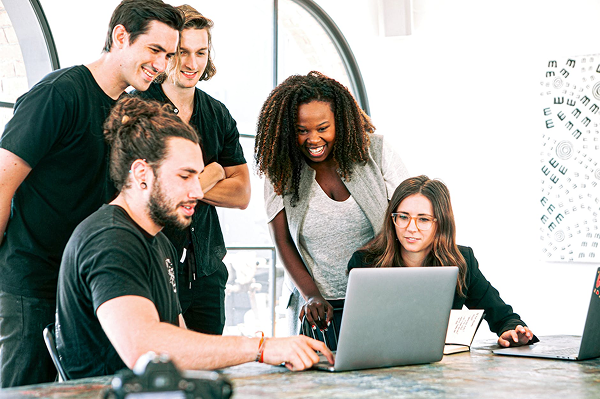
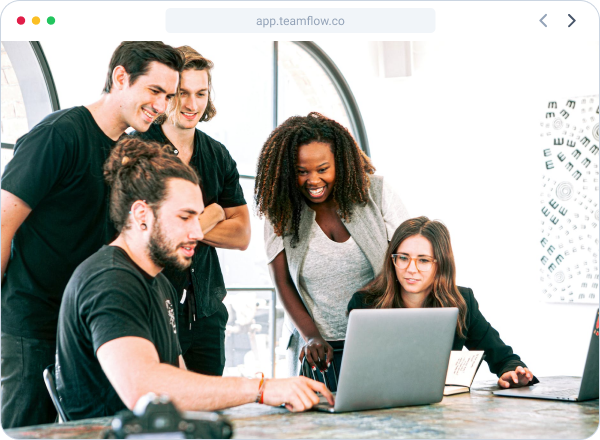
parte3

diff --git a/index.html b/index.html
@@ -5,9 +5,10 @@
     <meta name="viewport" content="width=device-width, initial-scale=1.0">
     <title>Projeto Bootstrap</title>
     <link rel="stylesheet" href="css/bootstrap.css">
+    <link rel="stylesheet" href="css/style.css">
 </head>
 <body>
-    <nav class="navbar navbar-expand-lg bg-body-tertiary ">
+    <nav class="navbar navbar-expand-md bg-light fixed-top box-shadow p-3">
   <div class="container">
     <a class="navbar-brand" href="#"><img src="img/Teamflow.png" alt=""></a>
     <button class="navbar-toggler" type="button" data-bs-toggle="collapse" data-bs-target="#navbarNavDropdown" aria-controls="navbarNavDropdown" aria-expanded="false" aria-label="Toggle navigation">
@@ -34,30 +35,101 @@
           <ul class="dropdown-menu">
             <li><a class="dropdown-item" href="#">Para Startups</a></li>
             <li><a class="dropdown-item" href="#">Para Pequenas Equipes</a></li>
-            <li><a class="dropdown-item" href="#">Something else here</a></li>
+            <li><a class="dropdown-item" href="#">Para Empresas</a></li>
+            <li><a class="dropdown-item" href="#">Agências</a></li>
           </ul>
         </li>
         <li class="nav-item dropdown mx-2">
           <a class="nav-link dropdown-toggle text-dark" href="#" role="button" data-bs-toggle="dropdown" aria-expanded="false">
-            Dropdown link
+            Serviços
           </a>
           <ul class="dropdown-menu">
-            <li><a class="dropdown-item" href="#">Action</a></li>
-            <li><a class="dropdown-item" href="#">Another action</a></li>
-            <li><a class="dropdown-item" href="#">Something else here</a></li>
+            <li><a class="dropdown-item" href="#">Onboarding</a></li>
+            <li><a class="dropdown-item" href="#">Implantação</a></li>
+            <li><a class="dropdown-item" href="#">Consultoria</a></li>
+            <li><a class="dropdown-item" href="#">Segurança e Conformidade</a></li>
+
+          </ul>
+        </li>
+        <li class="nav-item dropdown mx-2">
+          <a class="nav-link dropdown-toggle text-dark" href="#" role="button" data-bs-toggle="dropdown" aria-expanded="false">
+            Central de Ajuda
+          </a>
+          <ul class="dropdown-menu">
+            <li><a class="dropdown-item" href="#">Documentação</a></li>
+            <li><a class="dropdown-item" href="#">Guias e Tutoriais</a></li>
+            <li><a class="dropdown-item" href="#">Consultoria</a></li>
+            <li><a class="dropdown-item" href="#">Perguntas Frequentes (FAQ)</a></li>
+
           </ul>
         </li>
         <li class="nav-item">
-          <a class="nav-link text-dark" href="#">Features</a>
+          <a class="nav-link text-dark" href="#">Preços</a>
         </li>
       </ul>
     </div>
-    <div>
+    <div class="d-none d-sm-block">
         <a href="#" class="text-decoration-none fw-semibold p-4">Entrar</a>
         <a href="" class="btn btn-primary">Cadastre-se gratis ⭢ </a>
     </div>
   </div>
 </nav>
+
+    <section class="container my-5 pt-5 " id="section-principal">
+        <div class="row justify-content-center align-items-center">
+        <div class="col-md-5 mx-5">
+            <h1 class="fw-bold display-3 pb-2">Projetos em equipe, feitos do jeito certo</h1>
+            <p class="text-wrap py-3 lh-base">A plataforma completa para sua equipe planejar, colaborar e entregar projetos com mais organização, agilidade e resultado.</p>
+            <form class="d-flex" role="search">
+              <input class=" form-control me-2 " type="email" placeholder="email@email.com" aria-label="Search"/>
+              <button class="btn btn-primary w-50" type="submit">Cadastre-se  ⭢</button>
+            </form>
+            <img src="img/marcas.png" alt="marcas" class="pt-md-3 py-3" style="width: 100%;">
+        </div>
+        <div class="col-md-6">
+            <img src="img/foto1.png" alt="equipe" class="w-100">
+        </div>
+        </div>
+    </section>
+
+    <section class="container py-5 border-top" id="seg-section">
+        <div class="row justify-content-center align-items-center ">
+            <div class="col-md mx-5">
+                <img src="img/foto2.png" alt="" class="w-100 ">
+            </div>
+            <div class="col-md">
+                <h1 class="h1 fw-bold">Aproveite melhor o seu tempo trabalhando</h1>
+                <p class="lh-base py-3" >Organize projetos, acompanhe tarefas e colabore com sua equipe em um ambiente simples e intuitivo. Menos esforço para gerenciar, mais tempo para focar no que realmente importa.</p>
+                <a href="#" class="text-decoration-none fw-semibold">Veja como ajudamos outras equipes →</a>
+            </div>
+
+        </div>
+
+    </section>
+
+    <section class="container-md my-md-5 pt-md-5 my-3 pt-3 align-items-center" id="section-principal">
+        <div class="row justify-content-center align-items-center ">
+        <div class="col-md mx-5">
+            <h1 class="fw-bold h1 pb-2">Todas as ferramentas que sua equipe precisa</h1>
+            <p class="text-wrap py-3 lh-base">Centralize tarefas, comunicação e integrações em um único lugar. Conecte as ferramentas que sua equipe já usa e trabalhe com mais agilidade, organização e controle.</p>
+            <a href="#" class="text-decoration-none fw-semibold">Conheça as ferramentas →</a>
+        </div>
+        <div class="col-md">
+            <img src="img/foto3.png" alt="equipe" class="w-90 align-self-center">
+        </div>
+        </div>
+    </section>
+
+    <section class="container" id="section-fundo">
+        <div class="row">
+        <div class="col"></div>
+        <div class="p-4 text-white col align-self-center m-3">
+            <h1 class="display-3 pb-3">Problemas surgem. Soluções acontecem.</h1>
+            <p class="pb-3">Simplifique processos, reduza gargalos e resolva desafios com mais rapidez. A Teamflow ajuda sua equipe a manter o fluxo de trabalho organizado, do planejamento à entrega.</p>
+            <a href="" class="text-white fw-semibold text-decoration-none">Melhore seu fluxo de trabalho →</a>
+        </div>
+        </div>
+    </section>
 
 
 

diff --git a/css/style.css b/css/style.css
@@ -1,0 +1,59 @@
+body{
+    padding-top: 75px;
+}
+
+.box-shadow{
+    box-shadow: 0 2px 4px 0 rgba(0, 0, 0, 0.05),
+                0 4px 8px 0 rgba(0, 0, 0, 0.05);
+}
+
+#section-principal{
+    position: relative;
+}
+
+
+
+#seg-section{
+    position: relative;
+}
+
+@media(min-width:800px){
+#seg-section::after {
+  content: "";
+  position: absolute;
+  left: -80px;
+  top: 50%;
+  width: 160px;
+  height: 160px;
+  background-image: url("../img/Icons.png");
+  background-repeat: no-repeat;
+  background-size: contain;
+  transform: translateY(-50%);
+  opacity: 0.6;
+  pointer-events: none;
+  z-index: 10;
+}
+#section-principal::after {
+  content: "";
+  position: absolute;
+  right: -80px;
+  top: 5;
+  width: 160px;
+  height: 160px;
+  background-image: url("../img/Icons.png");
+  background-repeat: no-repeat;
+  background-size: contain;
+  transform: translateY(-50%);
+  opacity: 0.6;
+  pointer-events: none;
+}
+}
+
+#section-fundo{
+    background: url(../img/fundo.png);
+    background-size: cover;
+    width: 100%;
+    height: 400px;
+    border-radius: 50px;
+    margin-top: 90px;
+}
